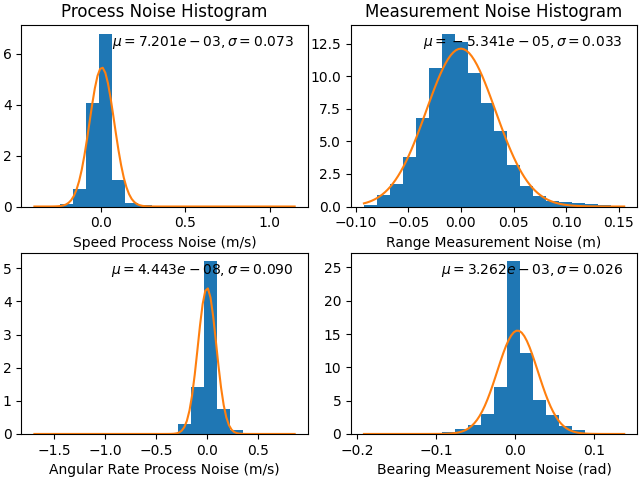
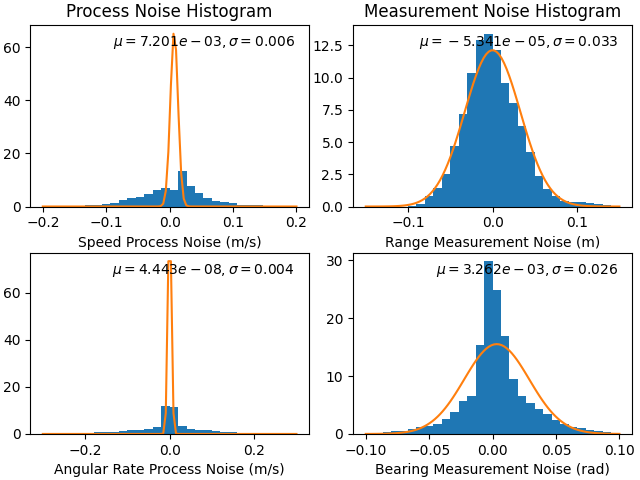
Added symbolic jacobian computations

diff --git a/main.py b/main.py
@@ -9,6 +9,7 @@ import matplotlib.transforms as transforms
 
 
 # import iterated_extended_kalman_filter as iekf
+from sympy import latex
 
 
 def read_data_mat(subdir_name, file_name):
@@ -34,13 +35,15 @@ def unpack_data(data_dict):
     ang_true = data_dict['th_true'].flatten()
     valid_flg = data_dict['true_valid'].flatten()
     dist_lidar_rel_body = data_dict['d'].flatten()
-    # range_meas_var = mat_contents['r_var'].flatten()  # unused
-    # ang_meas_var = mat_contents['b_var'].flatten()  # unused
-    # vel_meas_var = mat_contents['v_var'].flatten()  # unused
-    # ang_vel_meas_var = mat_contents['om_var'].flatten()  # unused
+    range_meas_var = data_dict['r_var'].flatten()  # unused
+    ang_meas_var = data_dict['b_var'].flatten()  # unused
+    vel_meas_var = data_dict['v_var'].flatten()  # unused
+    ang_vel_meas_var = data_dict['om_var'].flatten()  # unused
     t_step_count = t.size
     landmarks_count = landmarks_pos_x_true.size
-    t_step = t[1]
+    t_step = 0.1
+
+    print(f'Provided meas variance values: range={range_meas_var}, vel={vel_meas_var}, ang={ang_meas_var}, angvel={ang_vel_meas_var}')
 
     return t, range_meas, ang_meas, vel_norm_meas, ang_vel_meas, landmarks_pos_x_true, landmarks_pos_y_true, pos_x_true, \
            pos_y_true, ang_true, valid_flg, dist_lidar_rel_body, t_step_count, t_step, landmarks_count
@@ -124,7 +127,7 @@ def plot_data(t, range_meas, ang_meas, vel_norm_meas, ang_vel_meas, pos_x_true, 
     # axs4.set_xlabel('Time (s)')
 
 
-def compute_measurement_stats(flg_stats_print, range_meas, ang_meas, vel_norm_meas, ang_vel_meas, landmarks_pos_x_true,
+def compute_measurement_stats(flg_print_stats, range_meas, ang_meas, vel_norm_meas, ang_vel_meas, landmarks_pos_x_true,
                               landmarks_pos_y_true, pos_x_true, pos_y_true, ang_true, valid_flg, dist_lidar_rel_body,
                               t_step_count, t_step, landmarks_count):
     # Speed process noise
@@ -141,6 +144,11 @@ def compute_measurement_stats(flg_stats_print, range_meas, ang_meas, vel_norm_me
     proc_noise[1, 1:] = np.where(ang_true_del < -np.pi,
                                  (ang_true_del + 2 * np.pi) / t_step - ang_vel_meas[1:],
                                  proc_noise[1, 1:])
+    # Transformed process noise, w_k^\prime
+    proc_noise_transform = np.zeros((3, t_step_count))
+    proc_noise_transform[0, :] = proc_noise[0, :]*t_step*np.cos(ang_true)
+    proc_noise_transform[1, :] = proc_noise[0, :]*t_step*np.sin(ang_true)
+    proc_noise_transform[2, :] = proc_noise[1, :]*t_step
 
     # Measurement noise
     meas_count = np.count_nonzero(range_meas)
@@ -165,25 +173,33 @@ def compute_measurement_stats(flg_stats_print, range_meas, ang_meas, vel_norm_me
 
     # Compute noise statistics
     pos_true_mean = np.mean(np.abs(pos_x_true) * np.abs(pos_y_true))
+    vel_norm_meas_mean = np.mean(np.abs(vel_norm_meas))
+    ang_vel_meas_mean = np.mean(np.abs(ang_vel_meas))
     meas_noise_mean = np.mean(meas_noise, axis=1)
     meas_noise_var = np.var(meas_noise, axis=1)
     r_meas_noise_cov = np.cov(meas_noise)
     proc_noise_mean = np.mean(proc_noise, axis=1)
     proc_noise_var = np.var(proc_noise, axis=1)
     q_proc_noise_cov = np.cov(proc_noise)
+    proc_noise_transform_var = np.var(proc_noise_transform, axis=1)
+    q_proc_noise_transform_cov = np.cov(proc_noise_transform)
 
     # Noise statistics print
-    if flg_stats_print == 1:
+    if flg_print_stats == 1:
         print('*** Noise Statistics  ***\n'
               f'Valid data count is {np.sum(valid_flg)} out of {t_step_count}\n'
               f'Measurement count is {meas_count}, last count is {k}\n'
-              f'Position mean = {pos_true_mean:1.3f} m\n'
-              f'Measurement noise: mean={meas_noise_mean} m, var={meas_noise_var} m,'
-              f' std={np.sqrt(meas_noise_var)} m, cov = {r_meas_noise_cov} m\n'
-              f'Measurement noise: mean={proc_noise_mean} m, var={proc_noise_var} m,'
-              f' std={np.sqrt(proc_noise_var)} m, cov = {q_proc_noise_cov} m\n')
+              f'Position mean = {pos_true_mean:1.3f} m, speed mean = {vel_norm_meas_mean:1.3f} m/s, '
+              f'ang vel mean = {ang_vel_meas_mean:1.3f} rad/s\n'
+              f'Measurement noise: mean={meas_noise_mean}, 3std={3*np.sqrt(meas_noise_var)},\n'
+              f' std={np.sqrt(meas_noise_var)}, cov = {r_meas_noise_cov}\n'
+              f'Process noise: mean={proc_noise_mean}, 3std={3*np.sqrt(proc_noise_var)},\n'
+              f' std={np.sqrt(proc_noise_var)}, cov = {q_proc_noise_cov}\n'
+              f'Process noise transformed: 3std={3*np.sqrt(proc_noise_transform_var)},\n'
+              f' std={np.sqrt(proc_noise_transform_var)}, cov = {q_proc_noise_transform_cov}\n')
 
-    return proc_noise, meas_noise, pos_true_mean, meas_noise_mean, r_meas_noise_cov, proc_noise_mean, q_proc_noise_cov
+    return proc_noise, meas_noise, pos_true_mean, meas_noise_mean, r_meas_noise_cov, proc_noise_mean, \
+           q_proc_noise_transform_cov
 
 
 def plot_noise(t, proc_noise, meas_noise, meas_noise_mean, r_meas_noise_cov, proc_noise_mean, q_proc_noise_cov):
@@ -207,7 +223,7 @@ def plot_noise(t, proc_noise, meas_noise, meas_noise_mean, r_meas_noise_cov, pro
     # PLOT03: Model Noise Histogram
     fig3, axs3 = plt.subplots(2, 2)
     n_pts_plot = 100
-    bins = axs3[0, 0].hist(proc_noise[0, :], 20, density=1)[1]
+    bins = axs3[0, 0].hist(proc_noise[0, :], 30, range=(-0.2, 0.2),density=1)[1]
     proc_noise_fit_bins = np.linspace(bins[0], bins[-1], n_pts_plot)
     proc_noise_std = np.sqrt(q_proc_noise_cov[0, 0])
     proc_noise_fit = norm.pdf(proc_noise_fit_bins, proc_noise_mean[0], proc_noise_std)
@@ -217,7 +233,7 @@ def plot_noise(t, proc_noise, meas_noise, meas_noise_mean, r_meas_noise_cov, pro
                     horizontalalignment='right', verticalalignment='top', transform=axs3[0, 0].transAxes)
     axs3[0, 0].set_title("Process Noise Histogram")
 
-    bins = axs3[1, 0].hist(proc_noise[1, :], 20, density=1)[1]
+    bins = axs3[1, 0].hist(proc_noise[1, :], 30, range=(-0.3, 0.3), density=1)[1]
     proc_noise_fit_bins = np.linspace(bins[0], bins[-1], n_pts_plot)
     proc_noise_std = np.sqrt(q_proc_noise_cov[1, 1])
     proc_noise_fit = norm.pdf(proc_noise_fit_bins, proc_noise_mean[1], proc_noise_std)
@@ -226,7 +242,7 @@ def plot_noise(t, proc_noise, meas_noise, meas_noise_mean, r_meas_noise_cov, pro
     axs3[1, 0].text(0.95, 0.95, fr'$\mu={proc_noise_mean[1]:1.3e}, \sigma={proc_noise_std:1.3f}$',
                     horizontalalignment='right', verticalalignment='top', transform=axs3[1, 0].transAxes)
 
-    bins = axs3[0, 1].hist(meas_noise[0, :], 20, density=1)[1]
+    bins = axs3[0, 1].hist(meas_noise[0, :], 30, range=(-0.15, 0.15), density=1)[1]
     meas_noise_fit_bins = np.linspace(bins[0], bins[-1], n_pts_plot)
     meas_noise_std = np.sqrt(r_meas_noise_cov[0, 0])
     meas_noise_fit = norm.pdf(meas_noise_fit_bins, meas_noise_mean[0], meas_noise_std)
@@ -236,7 +252,7 @@ def plot_noise(t, proc_noise, meas_noise, meas_noise_mean, r_meas_noise_cov, pro
                     horizontalalignment='right', verticalalignment='top', transform=axs3[0, 1].transAxes)
     axs3[0, 1].set_title("Measurement Noise Histogram")
 
-    bins = axs3[1, 1].hist(meas_noise[1, :], 20, density=1)[1]
+    bins = axs3[1, 1].hist(meas_noise[1, :], 30, range=(-0.1, 0.1), density=1)[1]
     meas_noise_fit_bins = np.linspace(bins[0], bins[-1], n_pts_plot)
     meas_noise_std = np.sqrt(r_meas_noise_cov[1, 1])
     meas_noise_fit = norm.pdf(meas_noise_fit_bins, meas_noise_mean[1], meas_noise_std)
@@ -339,6 +355,22 @@ def confidence_ellipse(x, y, ax, n_std=3.0, facecolor='none', **kwargs):
     return ax.add_patch(ellipse)
 
 
+def print_jacobians():
+    import sympy
+    sympy.init_printing(use_latex='mathjax')
+
+    x, y, theta, T, v, w1, w2, r, psi, n1, n2, xl, yl, d, om = sympy.symbols('x,y,theta,T,v,w1,w2,r,psi,n1,n2,xl,yl,d,om')
+    state = sympy.Matrix([x, y, theta])
+    motion_model = sympy.Matrix([x+T*sympy.cos(theta)*(v+w1), y+T*sympy.sin(theta)*(v+w1), theta+T*(om+w2)])
+    motion_model_jacobian = motion_model.jacobian(state)
+    measurement_model = sympy.Matrix([sympy.sqrt((xl-x-d*sympy.cos(theta))**2+(yl-y-d*sympy.sin(theta))**2)+n1,
+                                      sympy.atan2(yl-y-d*sympy.sin(theta), xl-x-d*sympy.cos(theta))-theta+n2])
+    measurement_model_jacobian = measurement_model.jacobian(state)
+
+    print('F = ', latex(motion_model_jacobian))
+    print('G = ', latex(measurement_model_jacobian))
+
+
 # def plot_iekf():
 #     # Post process results
 #     pos_est_err = pos_est_corr - pos_true
@@ -392,8 +424,9 @@ def confidence_ellipse(x, y, ax, n_std=3.0, facecolor='none', **kwargs):
 
 def main():
     # Define flags
-    flg_plot_show = 1  # 0, 1
-    flg_stats_print = 1  # 0, 1
+    flg_plot_show = 0  # 0, 1
+    flg_print_stats = 1  # 0, 1
+    flg_print_jacobians = 0  # 0, 1
     flg_debug_prop_only = 0  # 0, 1
     # Define parameters
     range_max = 1  # 1, 3, 5
@@ -410,12 +443,16 @@ def main():
               landmarks_pos_x_true, landmarks_pos_y_true, dist_lidar_rel_body)
     # Q1: Compute statistics from measurement data
     proc_noise, meas_noise, pos_true_mean, meas_noise_mean, r_meas_noise_cov, proc_noise_mean, q_proc_noise_cov = \
-        compute_measurement_stats(flg_stats_print, range_meas, ang_meas, vel_norm_meas, ang_vel_meas,
+        compute_measurement_stats(flg_print_stats, range_meas, ang_meas, vel_norm_meas, ang_vel_meas,
                                   landmarks_pos_x_true, landmarks_pos_y_true, pos_x_true, pos_y_true, ang_true,
                                   valid_flg, dist_lidar_rel_body, t_step_count, t_step, landmarks_count)
     plot_noise(t, proc_noise, meas_noise, meas_noise_mean, r_meas_noise_cov, proc_noise_mean, q_proc_noise_cov)
+    # Q2 Verify Jacobians derivation
+    if flg_print_jacobians == 1:
+        print_jacobians()
+    # Q4 Call EKF on data
 
-    # # Q5: Call RTS smoother on data
+    # Q5: Call RTS smoother on data
     # q_proc_noise_cov = 0.002  # instead of using prop_err_std ** 2, we inflate the process noise
     # iekf.iekf_filter(pos_meas, vel_meas, pos_true, t, samples_count, t_step, q_proc_noise_cov, r_meas_noise_cov,
     #                  flg_debug_fwd_only, update_interval_indices, a_trans_mat, c_obs_mat)
